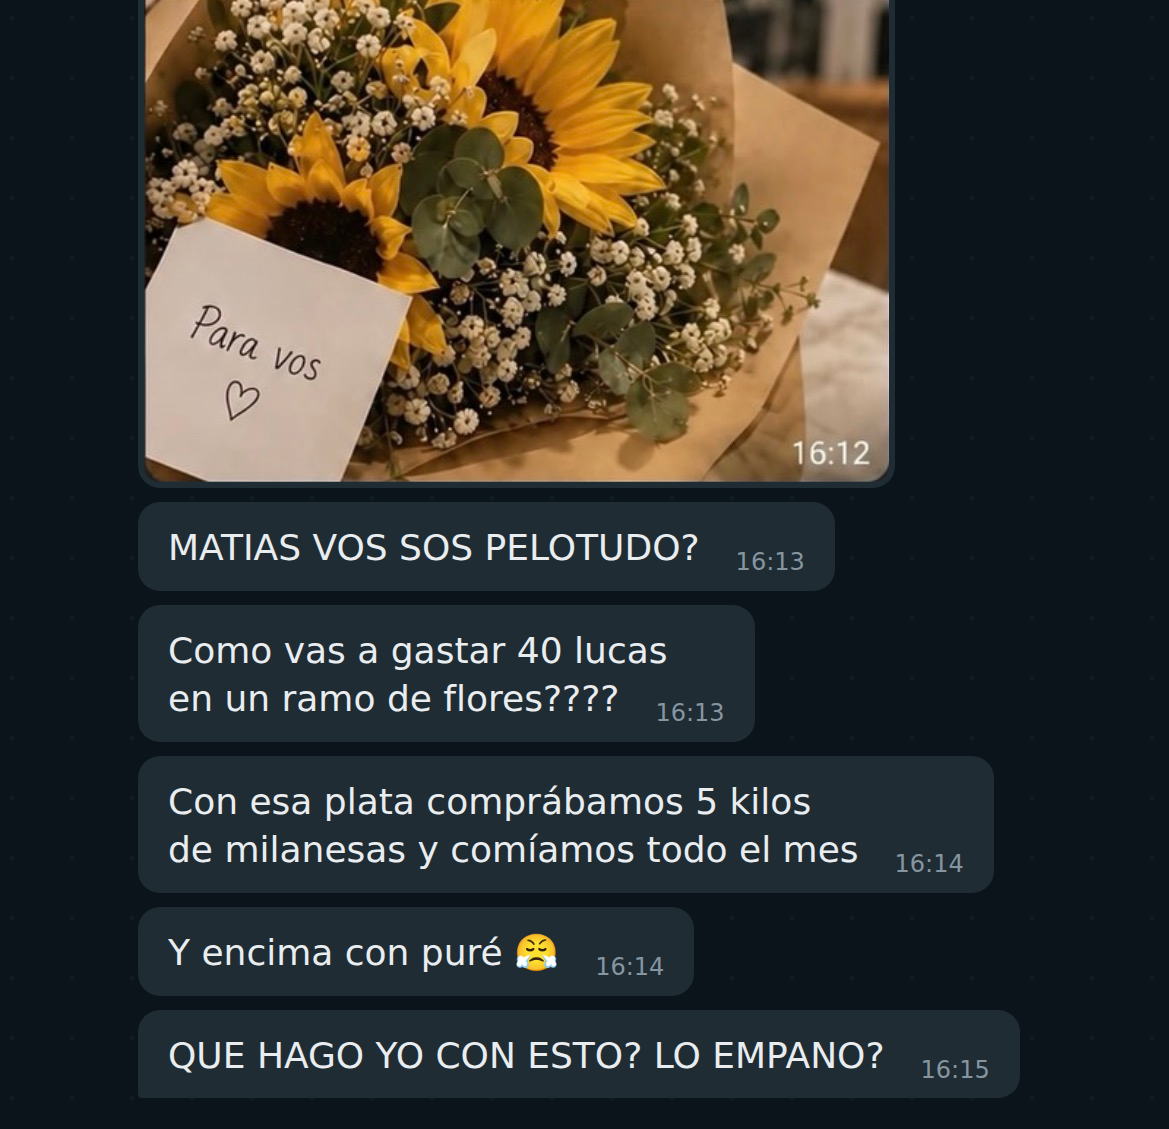
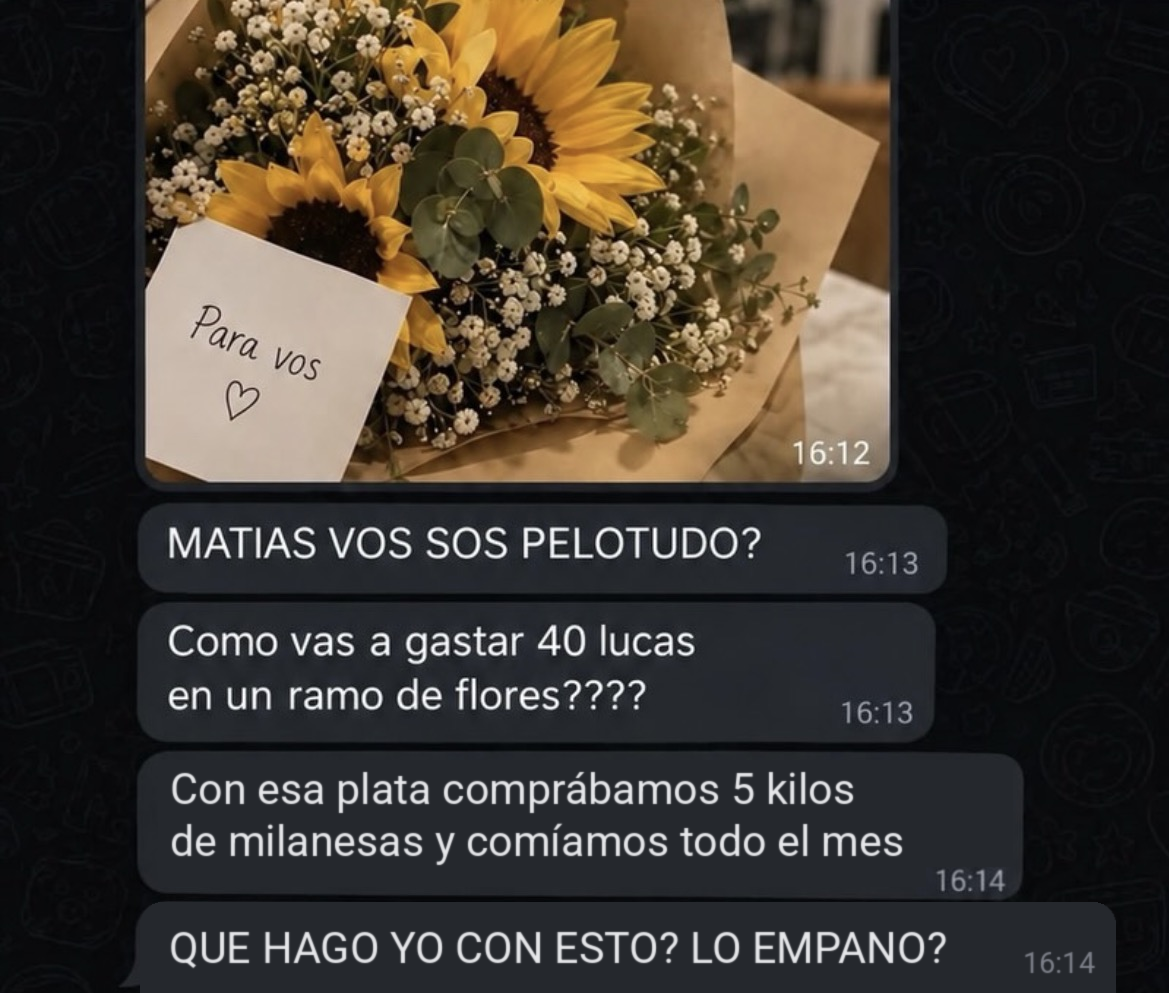
Rebuild meme on original WhatsApp screenshot, only swapping dialogue
Claude-Session: https://claude.ai/code/session_01XRszESRAVuQVV6XRXVnhQb

diff --git a/meme/make_meme.py b/meme/make_meme.py
@@ -1,0 +1,26 @@
+from PIL import Image, ImageDraw, ImageFont
+import numpy as np
+im=Image.open('original.jpg').convert('RGB')
+a=np.asarray(im).astype(int); L=a.mean(2)
+sub=a[950:975,750:825]; m=(L[950:975,750:825]>90)
+tc=tuple(int(v) for v in np.median(sub[m],0)); print('time color',tc)
+BUB=(37,40,45); TXT=(230,231,234)
+f=ImageFont.truetype('fonts/Roboto-400.ttf',43)
+ft=ImageFont.truetype('fonts/Roboto-400.ttf',29)
+d=ImageDraw.Draw(im)
+# bubble 3: erase old text, keep bubble + its time
+d.rectangle((158,760,925,886),fill=BUB); d.rectangle((925,760,1012,866),fill=BUB)
+off=f.getbbox('C')[1]
+d.text((170,773-off),'Con esa plata comprábamos 5 kilos',font=f,fill=TXT)
+d.text((170,825-off),'de milanesas y comíamos todo el mes',font=f,fill=TXT)
+# bubble 4: redraw wider
+t4='QUE HAGO YO CON ESTO? LO EMPANO?'
+w=f.getlength(t4); tx=169+w+76; tw=ft.getlength('16:14'); R=int(tx+tw+20)
+print('bubble4 right',R)
+d.rounded_rectangle((140,902,R,1040),radius=22,fill=BUB)
+d.text((169,932-f.getbbox('Q')[1]),t4,font=f,fill=TXT)
+d.text((tx,952-ft.getbbox('1')[1]),'16:14',font=ft,fill=tc)
+from PIL import ImageFilter
+for box in [(150,758,1015,890),(140,905,1116,993)]:
+    im.paste(im.crop(box).filter(ImageFilter.GaussianBlur(0.7)),box[:2])
+im.save('meme-milanesas.png')
